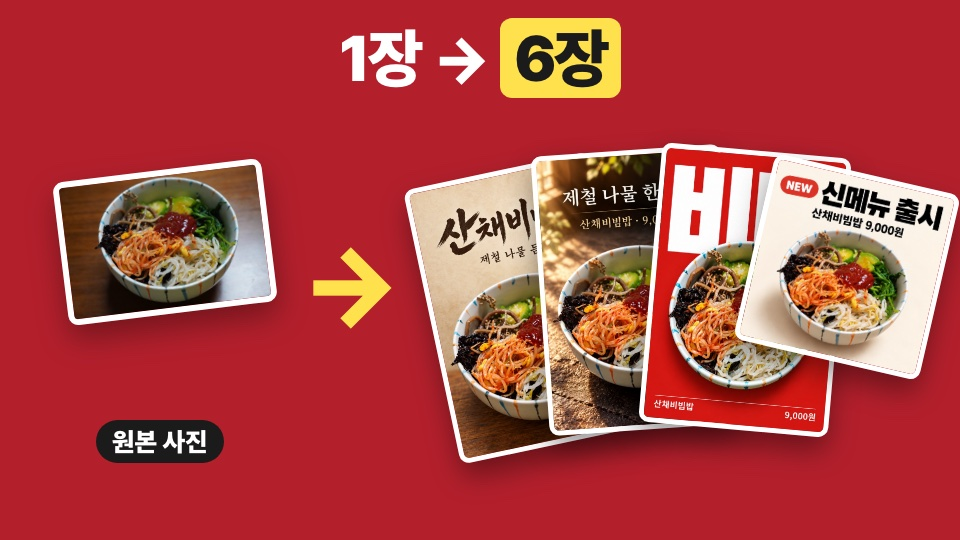
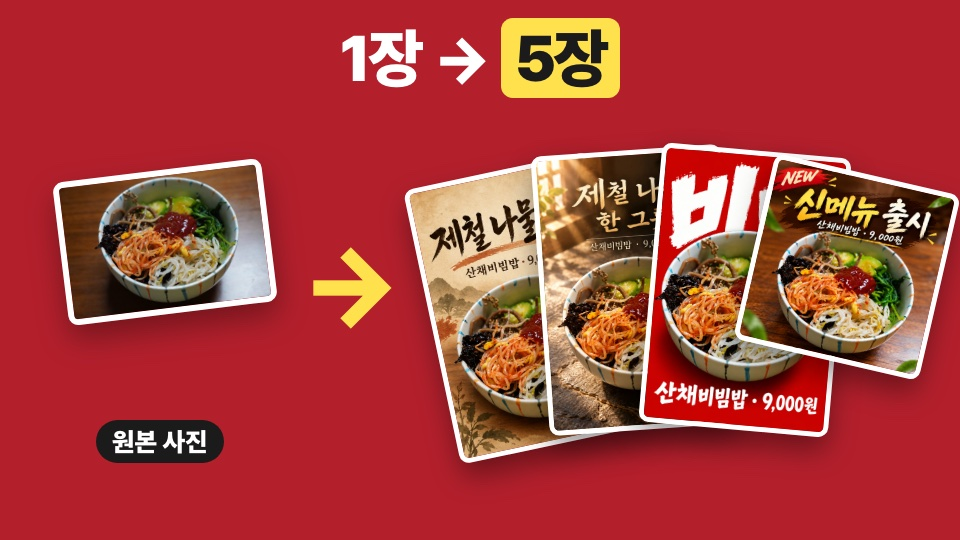
메뉴 포스터 결과 5장으로 교체(실제 부탁 문장으로 재생성), 부탁 문장·느낌 목록 갱신

diff --git a/index.html b/index.html
@@ -251,70 +251,20 @@ const ITEMS=[
 "인스타"
 ],
 "thumb": "img/thumb/poster_v4.jpg",
-"title": "메뉴 포스터, 사진 1장이면 6장 나옴",
-"line": "평범한 비빔밥 사진 한 장 + 부탁 문장 하나로 포스터·인스타 알림·메뉴판까지",
-"summary": "평범한 비빔밥 사진 한 장을 ChatGPT에 올리고 부탁 문장 하나를 붙여넣었더니, 고급 식당 광고·빨간 포스터·벽 포스터·인스타 알림·메뉴판까지 나왔습니다.",
-"who": "메뉴판·가게 홍보물을 직접 만드는 사장님",
-"gain": "메뉴 사진 한 장으로 포스터·인스타 알림·메뉴판까지",
+"title": "메뉴 포스터, 사진 1장이면 5장 나옴",
+"line": "평범한 비빔밥 사진 한 장 + 부탁 문장 하나로 포스터 5장",
+"summary": "평범한 비빔밥 사진 한 장을 ChatGPT에 올리고 부탁 문장에 느낌 한 줄만 바꿔 붙였더니, 고급 식당 광고·빨간 포스터·벽 포스터·인스타 신메뉴 알림·잡지 표지 느낌 포스터 5장이 나왔습니다.",
+"who": "메뉴 포스터·가게 홍보물을 직접 만드는 사장님",
+"gain": "메뉴 사진 한 장으로 포스터·인스타 신메뉴 알림까지",
 "free": true,
 "steps": [
 "ChatGPT를 엽니다 (chatgpt.com 또는 ChatGPT 앱).",
 "+ 를 눌러 우리 가게 메뉴 사진을 올립니다.",
-"아래 부탁 문장을 붙여넣고 [ ] 안만 바꿔서 보냅니다.",
+"아래 부탁 문장을 붙여넣고 [ ] 안을 바꾼 뒤, 느낌 한 줄을 골라 붙여서 보냅니다.",
 "글자가 틀리게 나오면 \"글자만 [정확한 글자]로 다시 써 줘\" 한 마디면 됩니다."
 ],
-"prompts": [
-{
-"label": "메뉴 포스터 부탁 문장",
-"text": "첨부한 [음식 이름] 사진으로 고급 식당 광고 같은 세로 포스터를 만들어 줘. 음식과 그릇은 사진 그대로 진짜 사진처럼 살리고 새로 그리지 마. 어두운 돌 테이블 위에 왼쪽 위 창가에서 따뜻한 빛이 들어오게, 그림자는 부드럽게. 위쪽에 큰 글씨로 \"[짧은 문구]\", 그 아래 작게 \"[메뉴 이름] · [가격]\". 글자는 내가 쓴 그대로 정확하게."
-},
-{
-"label": "느낌 바꾸기 ① 빨간 포스터 (맨 끝에 붙이기)",
-"text": "빨간 배경에 아주 큰 흰 글씨로, 그릇이 글씨 위에 놓인 것처럼"
-},
-{
-"label": "느낌 바꾸기 ② 벽 포스터",
-"text": "따뜻한 한지 느낌 벽 포스터, 붓글씨 제목으로"
-},
-{
-"label": "느낌 바꾸기 ③ 인스타 신메뉴 알림",
-"text": "인스타 정사각 신메뉴 알림으로, 왼쪽 위에 NEW 표시"
-},
-{
-"label": "글자가 틀리게 나왔을 때",
-"text": "글자만 [정확한 글자]로 다시 써 줘"
-}
-],
-"gallery": [
-[
-"img/poster/original.jpg",
-"원본 사진"
-],
-[
-"img/poster/verify_kr.jpg",
-"고급 식당 광고 느낌"
-],
-[
-"img/poster/p5_red.jpg",
-"빨간 포스터"
-],
-[
-"img/poster/p2_wall.jpg",
-"벽 포스터"
-],
-[
-"img/poster/p1_editorial.jpg",
-"잡지 느낌"
-],
-[
-"img/poster/p3_insta.jpg",
-"인스타 신메뉴 알림"
-],
-[
-"img/poster/p4_menu.jpg",
-"메뉴판"
-]
-],
+"prompts": [{"label": "메뉴 포스터 부탁 문장 ([느낌] 자리에 아래 중 하나를 붙이기)", "text": "첨부한 [음식 이름] 사진으로 가게 메뉴 포스터를 만들어 줘. 음식과 그릇은 사진 그대로 진짜 사진처럼 살리고 새로 그리지 마. 큰 글씨는 \"[짧은 문구]\", 작은 글씨는 \"[메뉴 이름] · [가격]\". 글자는 내가 쓴 그대로 정확하게. 느낌: [아래에서 하나 골라 붙이기]"}, {"label": "느낌 고르기 ① 고급 식당 광고", "text": "고급 식당 광고처럼, 어두운 돌 테이블에 왼쪽 위 창가에서 따뜻한 빛이 들어오는 세로 포스터"}, {"label": "느낌 고르기 ② 빨간 포스터", "text": "빨간 배경에 아주 큰 흰 글씨, 그릇이 글씨 위에 놓인 것처럼 보이는 세로 포스터"}, {"label": "느낌 고르기 ③ 벽 포스터", "text": "따뜻한 한지 느낌 벽 포스터, 붓글씨 제목, 세로"}, {"label": "느낌 고르기 ④ 인스타 신메뉴 알림", "text": "인스타 정사각 신메뉴 알림, 왼쪽 위에 NEW 표시"}, {"label": "느낌 고르기 ⑤ 잡지 표지", "text": "잡지 표지처럼 크림색 배경에 큰 여백, 재료 이름을 작은 글씨와 선으로 가리키는 세로 포스터"}, {"label": "글자가 틀리게 나왔을 때", "text": "글자만 [정확한 글자]로 다시 써 줘"}],
+"gallery": [["img/poster/original.jpg", "원본 사진"], ["img/poster/k1_moody.jpg", "고급 식당 광고 느낌"], ["img/poster/k2_red.jpg", "빨간 포스터"], ["img/poster/k3_wall.jpg", "벽 포스터"], ["img/poster/k4_insta.jpg", "인스타 신메뉴 알림"], ["img/poster/k5_mag.jpg", "잡지 표지 느낌"]],
 "faq": [
 [
 "돈 들어요?",
@@ -329,7 +279,7 @@ const ITEMS=[
 "ChatGPT예요. 사진을 올리고 부탁 문장만 붙여넣으면 됩니다."
 ]
 ],
-"note": "포스터는 같은 사진 한 장으로 ChatGPT가 실제로 만든 결과 그대로입니다. 메뉴판 예시 속 다른 메뉴와 가격은 예시로 넣은 것입니다.",
+"note": "포스터 5장은 위 부탁 문장에 느낌 한 줄씩만 바꿔 넣어 ChatGPT가 실제로 만든 결과 그대로입니다.",
 "src": "무료 조건: <a href=\"https://help.openai.com/en/articles/9275245-chatgpt-free-tier-faq\" target=\"_blank\" rel=\"noopener\">OpenAI 도움말</a> · 원본 사진: <a href=\"https://commons.wikimedia.org/wiki/File:Sanchae_Bibimbap_in_homemade_style.jpg\" target=\"_blank\" rel=\"noopener\">Real rism, CC0 (Wikimedia Commons)</a>"
 },
 {
